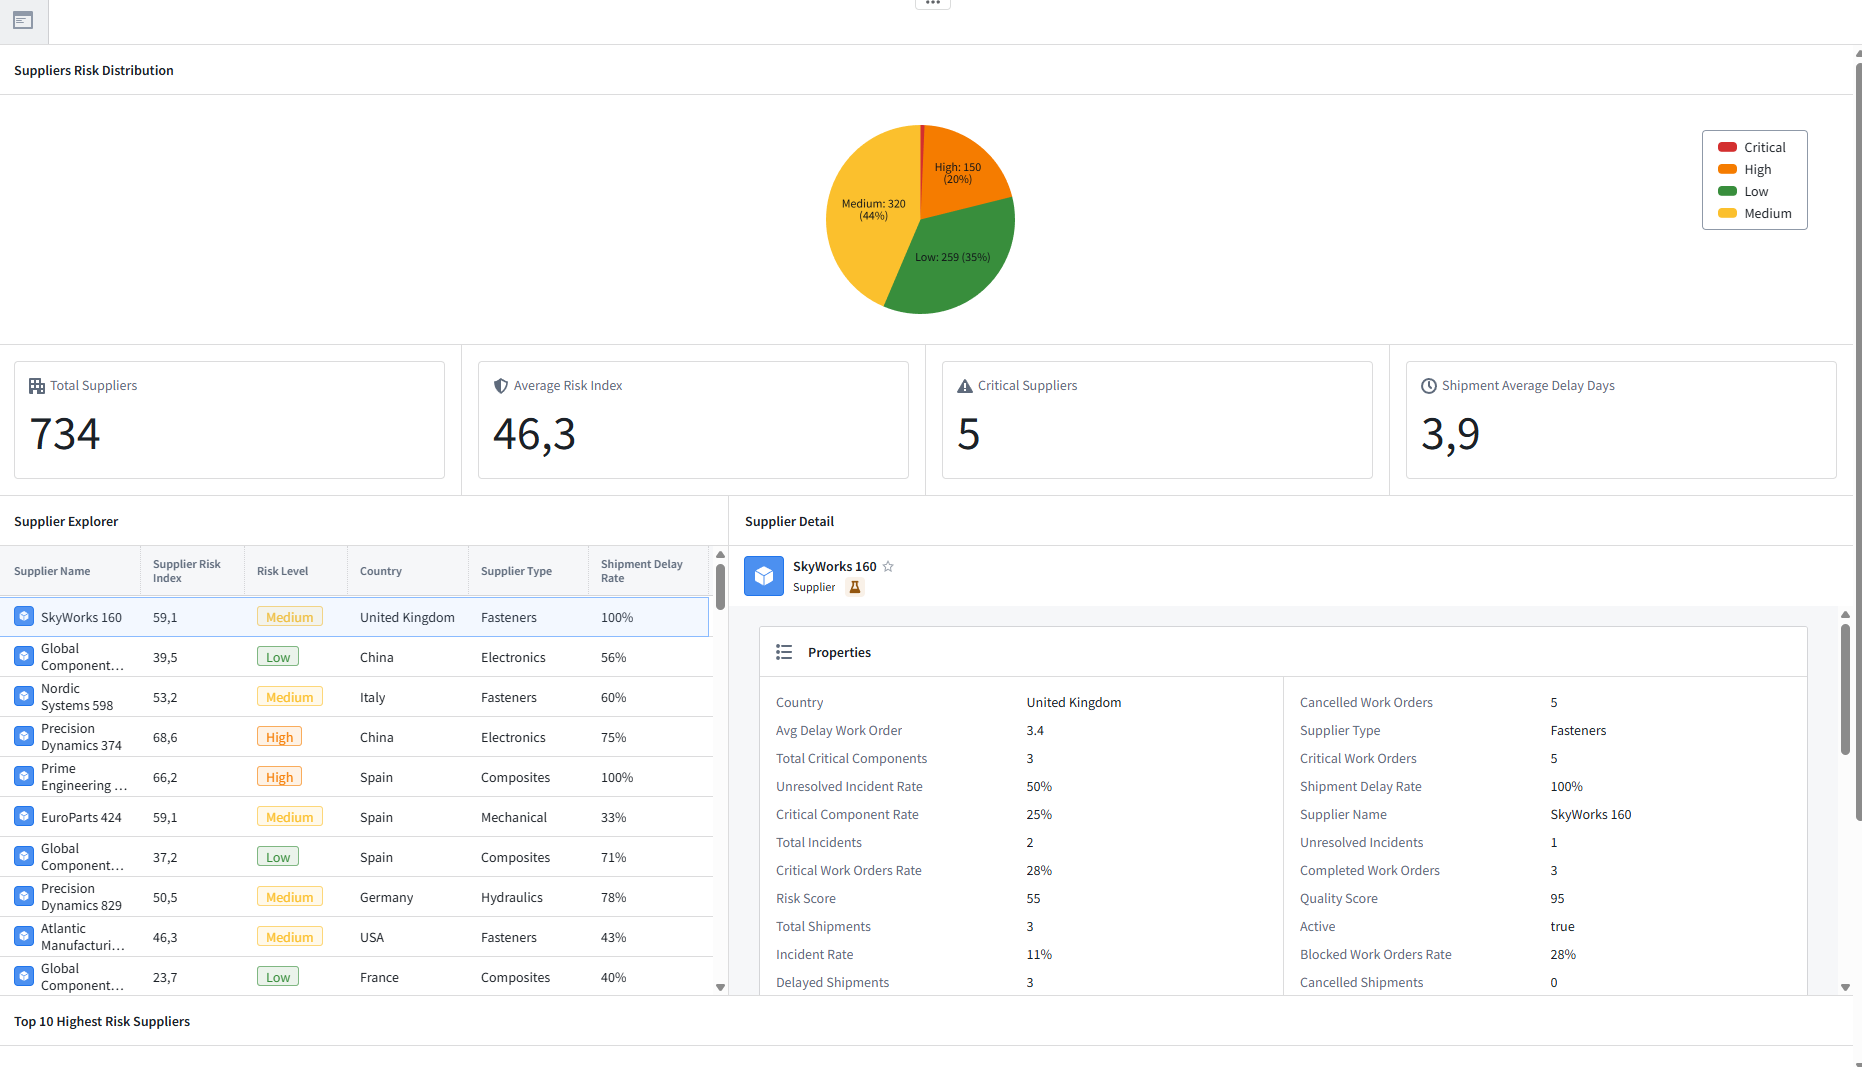
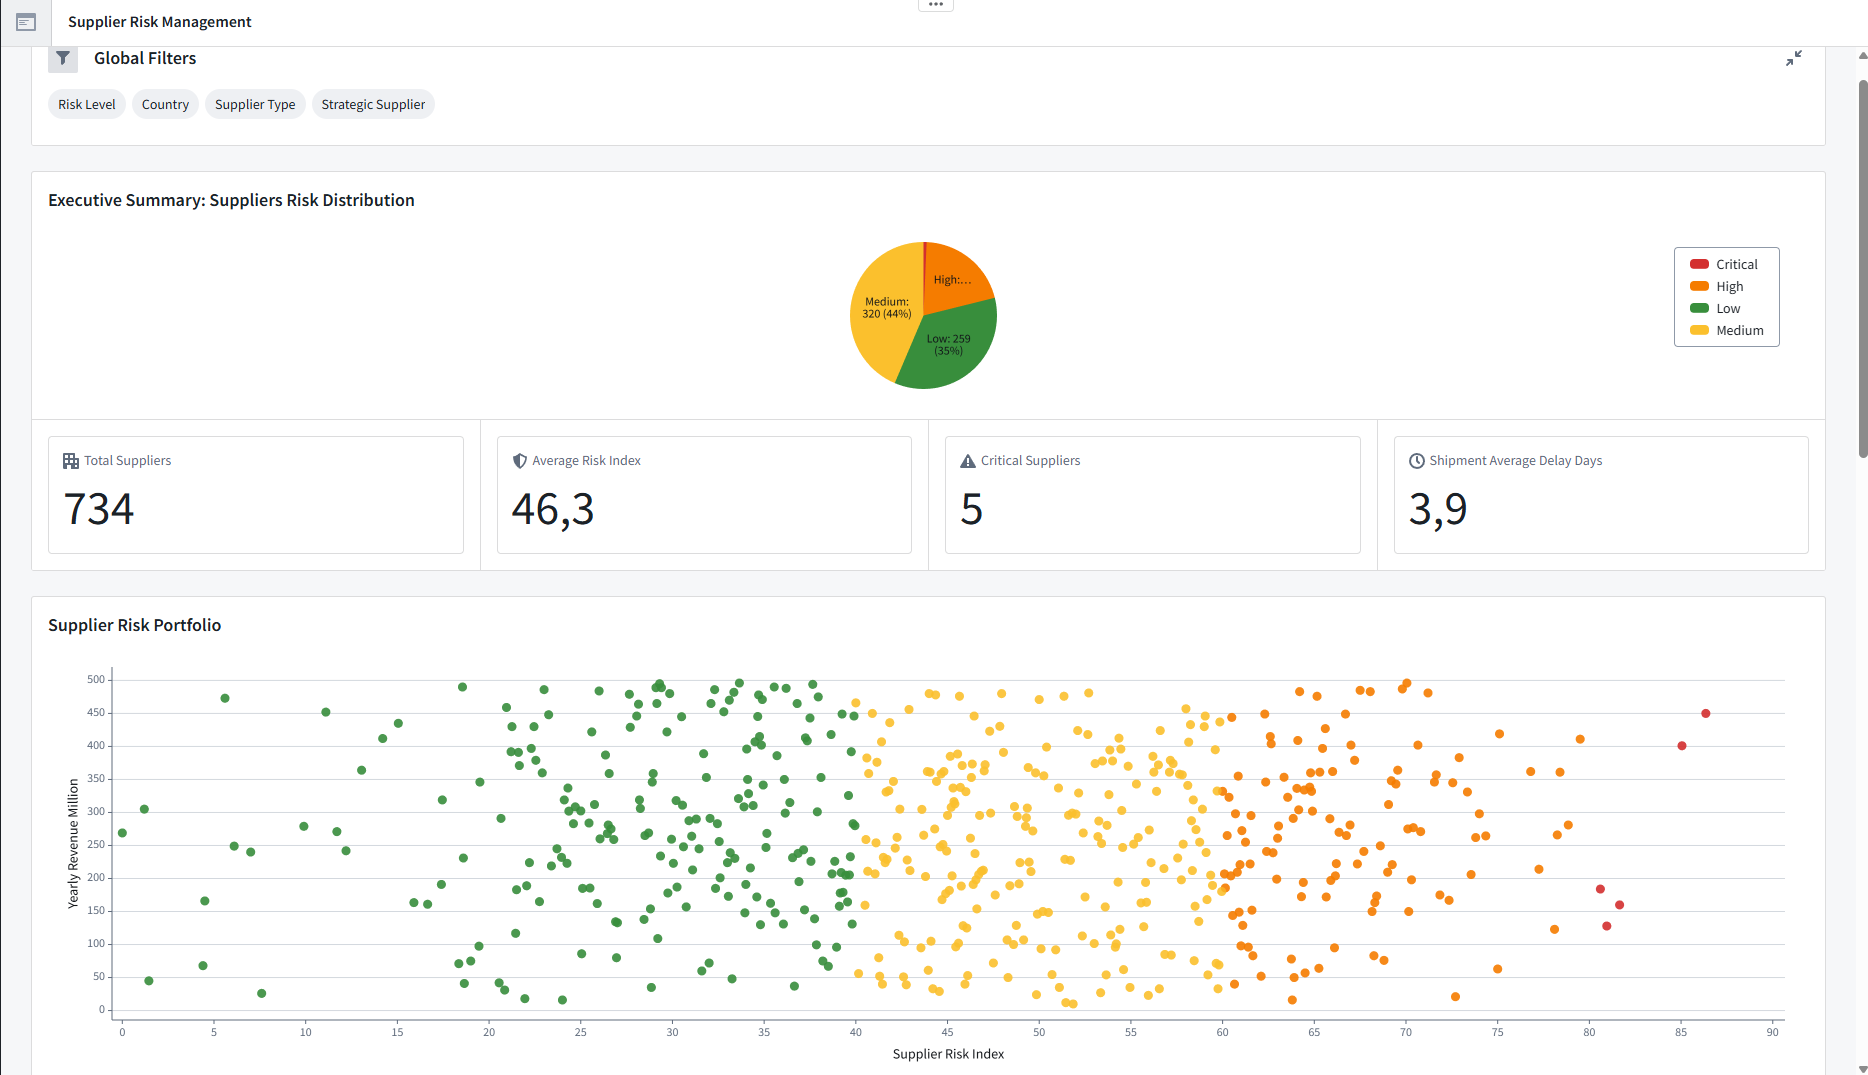
Enhance Workshop application

diff --git a/README.md b/README.md
@@ -74,18 +74,29 @@ A first operational application has been built on top of the Ontology.
 
 ### Supplier Risk Management Application
 
-Features:
+Current functionality includes:
 
-* Supplier risk distribution analysis
-* KPI monitoring
-* Supplier explorer
-* Supplier detail view
-* Top-risk supplier identification
-* Interactive filtering and exploration
+* Executive KPI dashboard
+* Global interactive filters (Risk Level, Country, Supplier Type and Strategic Supplier)
+* Supplier risk distribution
+* Supplier Risk Portfolio scatter plot for identifying high-risk, high-value suppliers
+* Supplier explorer with contextual detail panel
+* Related components navigation
+* Top 10 highest-risk suppliers
+* Country-level risk analysis
+* Cross-filtering across all visualizations
+
+Overview of the application:
 
 ![Supplier Risk Management Application](images/workshop/supplier-risk-app.png)
 
+Interactive Supplier Explorer:
+
 ![Supplier Risk Management Application](images/workshop/supplier-risk-app-2.png)
+
+Filtering suppliers dynamically:
+
+![Filtered Suppliers](images/workshop/supplier-risk-app-3.png)
 
 ---
 